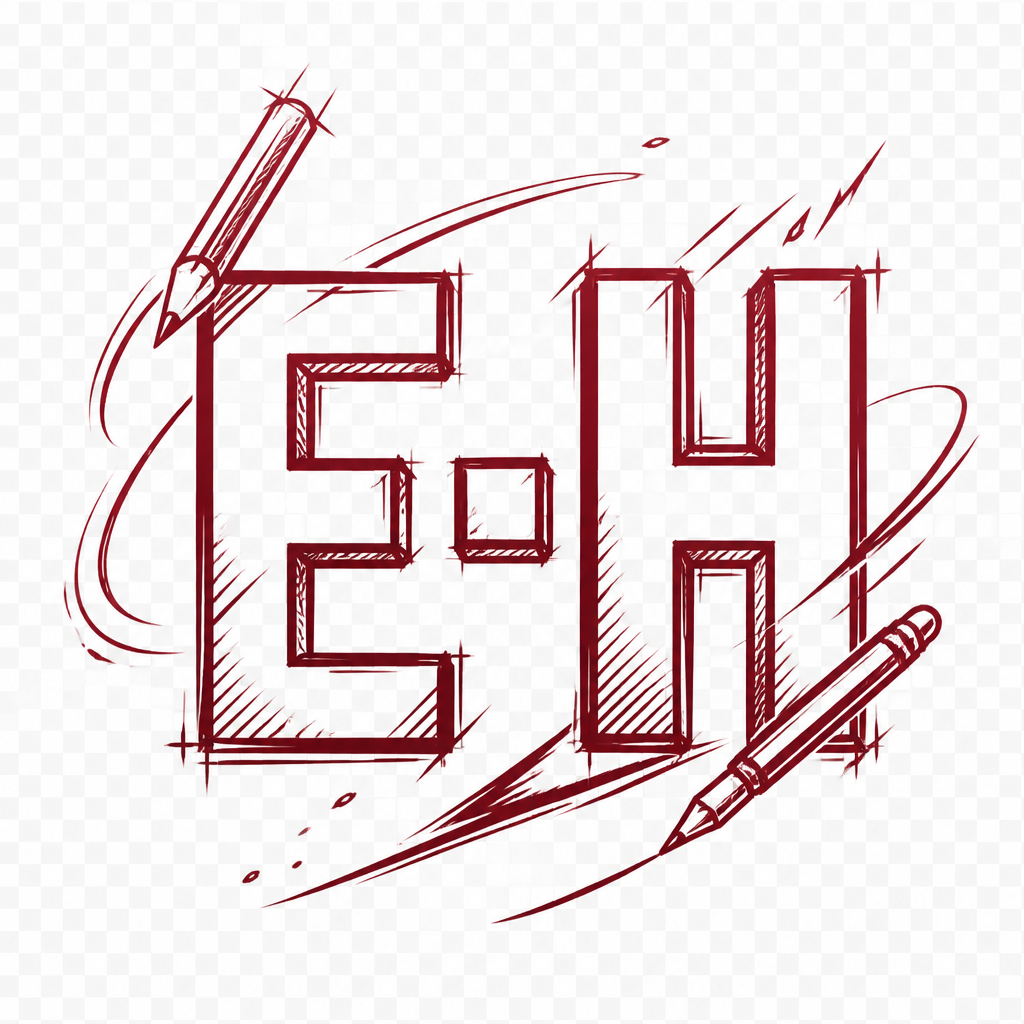
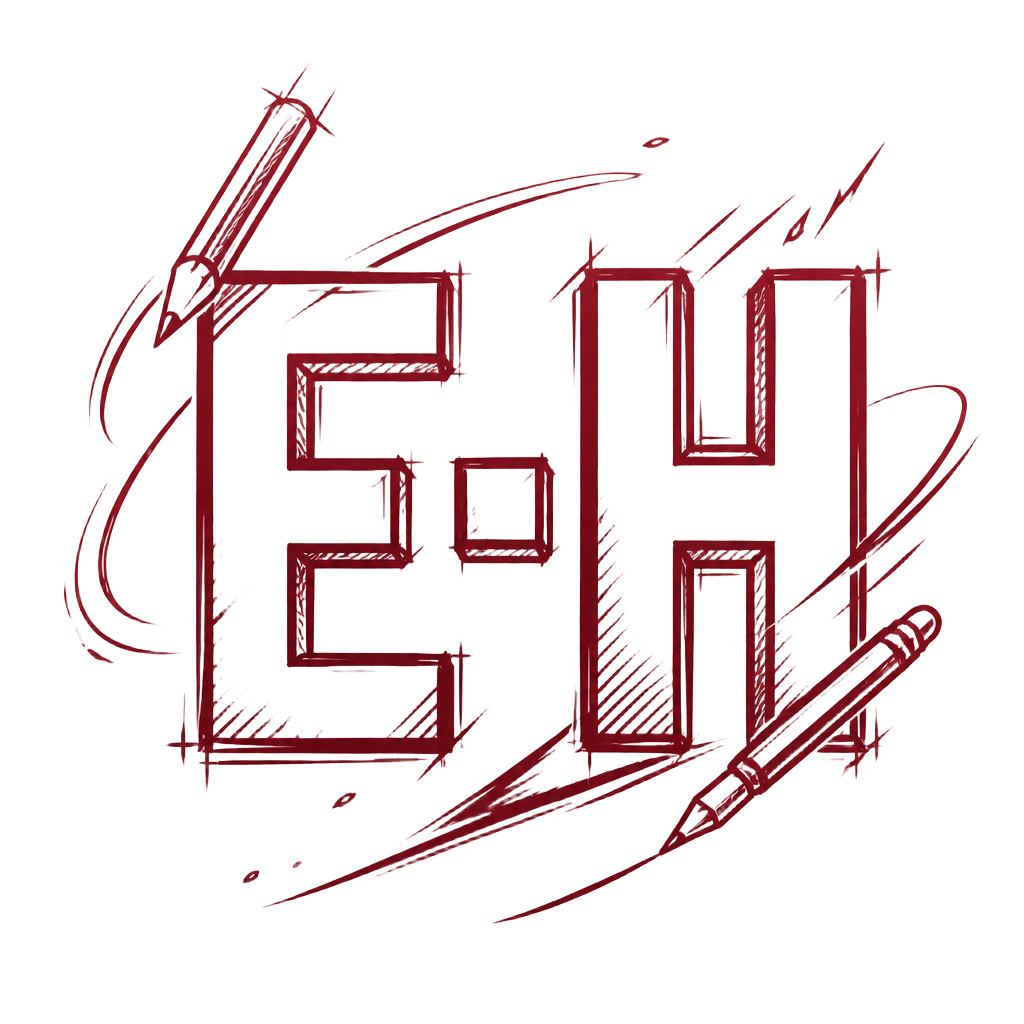
feat: update localization for gallery and file tabs, enhance popup functionality with improved status handling, and refactor status card layout for better presentation

diff --git a/src/popup/index.tsx b/src/popup/index.tsx
@@ -296,27 +296,50 @@ const Popup = () => {
     await launchDownload('retry', failed);
   };
 
-  const reloadGallery = async () => {
+  const initFromCurrentTab = async () => {
     setStatus(StatusEnum.Loading);
     const url = await getCurrentTabUrl().catch(() => '');
     tabUrlRef.current = url;
     setCurrentPage(getCurrentPageFromUrl(url));
+
+    if (!isEHentaiGalleryUrl(url)) {
+      setStatus(isEHentaiPageUrl(url) ? StatusEnum.EHentaiOther : StatusEnum.OtherPage);
+      return;
+    }
+
+    const items = configLatest.current ?? DEFAULT_CONFIG;
+    configLatest.current = items;
+
+    const trimmed = url.split('?')[0];
+    galleryFrontPageUrl.current = trimmed.substring(0, trimmed.lastIndexOf('/') + 1);
     const galleryHtmlStr = await getCurrentTabHtml().catch(() => '');
     if (!isGalleryPageHtml(galleryHtmlStr)) {
       setStatus(StatusEnum.Fail);
       return;
     }
+
     const pageInfo = extractGalleryPageInfo(galleryHtmlStr);
     setGalleryPageInfo(pageInfo);
     const galleryInfoResult = await extractGalleryInfo(galleryHtmlStr);
     setGalleryInfo(galleryInfoResult);
+
+    const basePath = (config || DEFAULT_CONFIG).intermediateDownloadPath;
     configLatest.current = {
       ...configLatest.current,
-      intermediateDownloadPath:
-        (config || DEFAULT_CONFIG).intermediateDownloadPath +
-        removeInvalidCharFromFilename(galleryInfoResult.name),
+      intermediateDownloadPath: basePath + removeInvalidCharFromFilename(galleryInfoResult.name),
     };
+
     setStatus(StatusEnum.BeforeDownload);
+
+    const task = await downloadTaskStorage.get();
+    if (task?.galleryUrl === galleryFrontPageUrl.current) {
+      const restored = taskStatusToUi(task.status);
+      if (restored !== null) setStatus(restored);
+    }
+  };
+
+  const reloadGallery = () => {
+    void initFromCurrentTab();
   };
 
   const isDownloading =
@@ -327,49 +350,7 @@ const Popup = () => {
   const downloadsBadge = isDownloading && inProgressCount > 0 ? String(inProgressCount) : undefined;
 
   useMounted(() => {
-    (async () => {
-      const url = await getCurrentTabUrl().catch(() => '');
-      tabUrlRef.current = url;
-      setCurrentPage(getCurrentPageFromUrl(url));
-      if (isEHentaiGalleryUrl(url)) {
-        const items = configLatest.current ?? DEFAULT_CONFIG;
-        configLatest.current = items;
-
-        const trimmed = url.split('?')[0];
-        galleryFrontPageUrl.current = trimmed.substring(0, trimmed.lastIndexOf('/') + 1);
-        const galleryHtmlStr = await getCurrentTabHtml().catch(() => '');
-        if (!isGalleryPageHtml(galleryHtmlStr)) {
-          setStatus(StatusEnum.Fail);
-          return;
-        }
-
-        const pageInfo = extractGalleryPageInfo(galleryHtmlStr);
-        setGalleryPageInfo(pageInfo);
-        const galleryInfoResult = await extractGalleryInfo(galleryHtmlStr);
-        setGalleryInfo(galleryInfoResult);
-
-        configLatest.current = {
-          ...configLatest.current,
-          intermediateDownloadPath:
-            configLatest.current.intermediateDownloadPath +
-            removeInvalidCharFromFilename(galleryInfoResult.name),
-        };
-
-        setStatus(StatusEnum.BeforeDownload);
-
-        const task = await downloadTaskStorage.get();
-        if (task?.galleryUrl === galleryFrontPageUrl.current) {
-          const restored = taskStatusToUi(task.status);
-          if (restored !== null) setStatus(restored);
-        }
-        return;
-      }
-      if (isEHentaiPageUrl(url)) {
-        setStatus(StatusEnum.EHentaiOther);
-        return;
-      }
-      setStatus(StatusEnum.OtherPage);
-    })();
+    void initFromCurrentTab();
   });
 
   const handleClickDownload = () => {
@@ -416,35 +397,38 @@ const Popup = () => {
             icon={<InfoIcon />}
             title={t('notOnGalleryPage')}
             description={t('notOnGalleryDesc')}
-          >
-            <Button size="sm" variant="flat" onPress={() => void reloadGallery()}>
-              {t('refreshPage')}
-            </Button>
-          </StatusCard>
+          />
         );
       case StatusEnum.OtherPage:
         return (
-          <StatusCard variant="info" icon={<LinkIcon />} title={t('openGalleryFirst')}>
-            <div className="flex flex-col items-center gap-3">
-              <div className="flex items-center justify-center gap-2 text-sm leading-relaxed text-body">
-                <Link
-                  href="https://e-hentai.org/"
-                  isExternal
-                  className="font-medium text-brand-accent underline underline-offset-2"
-                >
-                  E-Hentai
-                </Link>
-                <span className="text-[11px] text-muted-soft">·</span>
-                <Link
-                  href="https://exhentai.org/"
-                  isExternal
-                  className="font-medium text-brand-accent underline underline-offset-2"
-                >
-                  ExHentai
-                </Link>
-              </div>
-              <Button size="sm" variant="flat" onPress={() => void reloadGallery()}>
-                {t('refreshPage')}
+          <StatusCard
+            variant="info"
+            icon={<LinkIcon />}
+            title={t('openGalleryFirst')}
+            description={t('openGalleryDesc')}
+          >
+            <div className="grid w-full max-w-[280px] grid-cols-2 gap-2">
+              <Button
+                as="a"
+                href="https://e-hentai.org/"
+                target="_blank"
+                rel="noreferrer"
+                size="sm"
+                variant="flat"
+                className="h-9 border border-[var(--eh-glass-border)] bg-[rgb(8_8_9/0.25)] font-medium text-brand-accent"
+              >
+                E-Hentai
+              </Button>
+              <Button
+                as="a"
+                href="https://exhentai.org/"
+                target="_blank"
+                rel="noreferrer"
+                size="sm"
+                variant="flat"
+                className="h-9 border border-[var(--eh-glass-border)] bg-[rgb(8_8_9/0.25)] font-medium text-brand-accent"
+              >
+                ExHentai
               </Button>
             </div>
           </StatusCard>
@@ -788,9 +772,9 @@ const Popup = () => {
                 base: 'flex justify-center',
               }}
             >
-              <Tab key="info" title={t('infoTab')}>
+              <Tab key="info" title={t('galleryTab')}>
                 <div
-                  className={`scrollbar-glass h-popup-content w-full overflow-y-auto overflow-x-hidden ${isCenteredStatus ? 'flex items-center justify-center px-4 py-2' : ''}`}
+                  className={`scrollbar-glass h-popup-content w-full overflow-y-auto overflow-x-hidden ${isCenteredStatus ? 'flex flex-col items-center justify-center px-4 py-2 -translate-y-4' : ''}`}
                 >
                   {statusContent}
                 </div>
@@ -799,7 +783,7 @@ const Popup = () => {
                 key="downloadList"
                 title={
                   <span className="inline-flex items-center gap-1.5">
-                    {t('downloadsTab')}
+                    {t('filesTab')}
                     {downloadsBadge ? (
                       <span className="rounded-full bg-brand-accent px-1.5 py-0.5 text-[10px] font-bold text-black">
                         {downloadsBadge}

diff --git a/src/components/status-card.tsx b/src/components/status-card.tsx
@@ -34,7 +34,9 @@ export const StatusCard = ({
 
   if (embedded) {
     return (
-      <div className={`${cardShell} flex w-full items-start gap-3 rounded-2xl p-3 ${className}`.trim()}>
+      <div
+        className={`${cardShell} flex w-full items-start gap-3 rounded-2xl p-3 ${className}`.trim()}
+      >
         <div className="glass-frost-pool pointer-events-none absolute inset-0" aria-hidden />
         <div
           className={`pointer-events-none absolute -right-10 -top-10 h-24 w-24 rounded-full opacity-70 blur-[64px] ${ambient}`}
@@ -47,7 +49,9 @@ export const StatusCard = ({
         </div>
         <div className="relative z-10 flex flex-col gap-1 text-left">
           <h3 className="text-[13px] font-semibold tracking-tight text-ink">{title}</h3>
-          {description && <div className="text-[11px] leading-relaxed text-muted">{description}</div>}
+          {description && (
+            <div className="text-[11px] leading-relaxed text-muted">{description}</div>
+          )}
           {children && <div className="mt-1">{children}</div>}
         </div>
       </div>
@@ -55,17 +59,22 @@ export const StatusCard = ({
   }
 
   return (
-    <div className={`${cardShell} mx-auto w-full max-w-[400px] rounded-[24px] p-6 ${className}`.trim()}>
+    <div
+      className={`${cardShell} mx-auto w-full max-w-[400px] rounded-[24px] p-5 ${className}`.trim()}
+    >
       <div className="glass-frost-pool pointer-events-none absolute inset-0" aria-hidden />
-      <div className="glass-highlight-pool pointer-events-none absolute inset-x-8 top-0 h-px" aria-hidden />
+      <div
+        className="glass-highlight-pool pointer-events-none absolute inset-x-8 top-0 h-px"
+        aria-hidden
+      />
       <div
         className={`pointer-events-none absolute -right-14 -top-14 h-40 w-40 rounded-full opacity-70 blur-[80px] ${ambient}`}
         aria-hidden
       />
 
-      <div className="relative z-10 flex flex-col items-center gap-5 text-center">
+      <div className="relative z-10 flex flex-col items-center gap-4 text-center">
         <div
-          className={`flex h-14 w-14 items-center justify-center rounded-2xl border shadow-[inset_0_1px_0_rgba(110,160,175,0.04)] ${iconGlass} ${
+          className={`flex h-12 w-12 items-center justify-center rounded-2xl border shadow-[inset_0_1px_0_rgba(110,160,175,0.04)] ${iconGlass} ${
             variant === 'warning'
               ? 'text-warning/90'
               : variant === 'success'
@@ -81,7 +90,9 @@ export const StatusCard = ({
         <div className="flex w-full flex-col items-center gap-2">
           <h3 className="text-xl font-bold tracking-tight text-ink">{title}</h3>
           {description && (
-            <div className="max-w-[300px] text-[13px] leading-relaxed text-muted">{description}</div>
+            <div className="max-w-[300px] text-[13px] leading-relaxed text-muted">
+              {description}
+            </div>
           )}
           {children && <div className="mt-2">{children}</div>}
         </div>

diff --git a/src/utils/i18n.ts b/src/utils/i18n.ts
@@ -16,13 +16,13 @@ const fallbackMessages: Record<string, string> = {
   estimatedTime: 'Estimated',
   seconds: 's',
   viewFileList: 'View file list',
-  downloadsTab: 'Downloads',
+  galleryTab: 'Gallery',
+  filesTab: 'Files',
   backgroundHint: 'You can close this popup — download continues in the background.',
   pathPreviewExample: 'Gallery Name/',
   settings: 'Settings',
   saveSettings: 'Save Settings',
   historyTab: 'History',
-  infoTab: 'Info',
   previouslyTracked: 'Previously tracked',
   viewDetails: 'View details',
   downloadCancelled: 'Download cancelled',
@@ -36,7 +36,8 @@ const fallbackMessages: Record<string, string> = {
   initializing: 'Initializing...',
   notOnGalleryPage: 'Not on a Gallery Page',
   notOnGalleryDesc: 'Open a gallery from the list or search to start downloading.',
-  openGalleryFirst: 'Start by Opening a Gallery',
+  openGalleryFirst: 'No Gallery Open',
+  openGalleryDesc: 'Visit E-Hentai or ExHentai and open a gallery to start downloading.',
   unableReadGallery: 'Unable to Read Gallery',
   unableReadGalleryDesc: 'Could not parse the current page. Refresh the gallery and try again.',
   imagesLabel: 'Images',